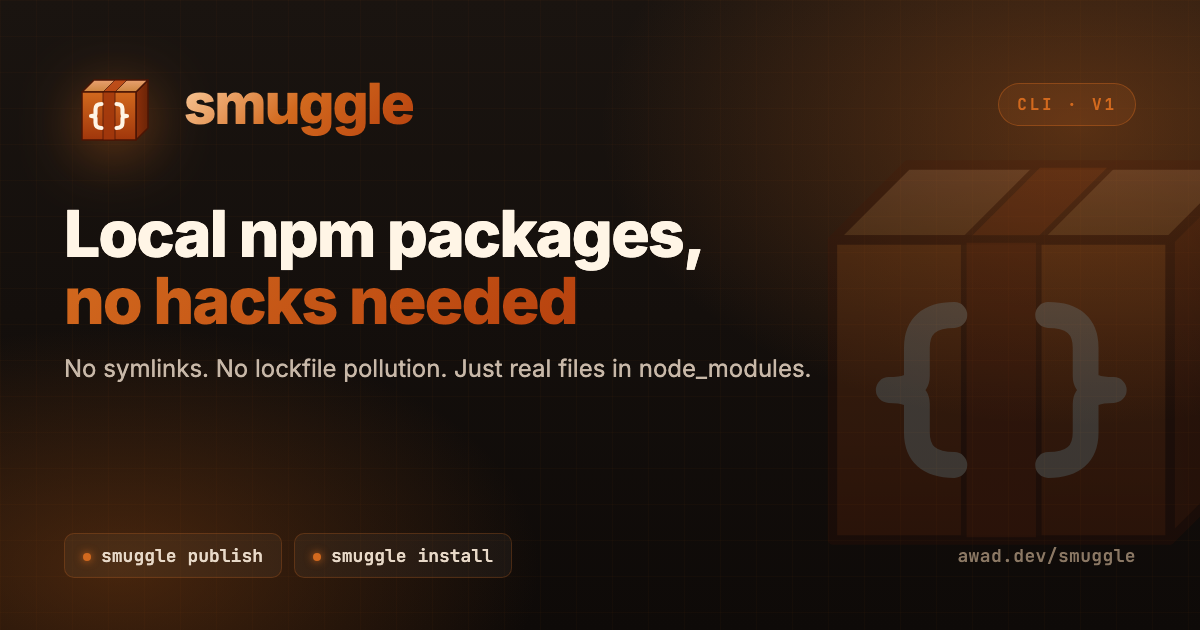
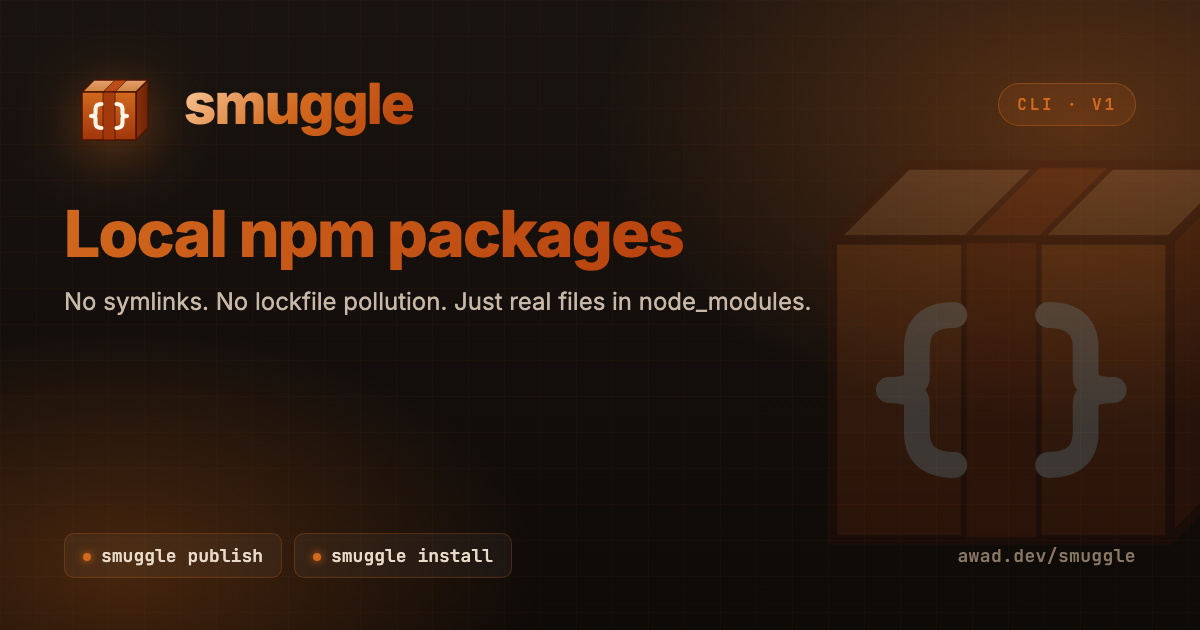
Add custom site footer and trim hero/OG copy
Slot a branded Footer with mini illustration, three link columns
(Guide / Reference / Project), and a faux-prompt bottom strip into
the layout-bottom slot via a Layout wrapper. Add a CSS rule to push
the footer past the fixed sidebar on doc pages so it isn't covered.

Drop "no hacks needed" from the hero, footer tag, and OG image —
reads cleaner without it.

Changed region(s): [[0.0308, 0.3317, 0.6783, 0.5127], [0.0308, 0.573, 0.6783, 0.6032]]

diff --git a/docs/.vitepress/components/Footer.vue b/docs/.vitepress/components/Footer.vue
@@ -1,0 +1,337 @@
+<script setup>
+import { withBase } from "vitepress";
+
+const COLUMNS = [
+  {
+    title: "Guide",
+    links: [
+      { text: "Why Smuggle?", to: "/guide/why" },
+      { text: "Getting Started", to: "/guide/getting-started" },
+      { text: "CI / Non-Interactive", to: "/guide/ci" },
+    ],
+  },
+  {
+    title: "Reference",
+    links: [
+      { text: "Commands", to: "/reference/commands" },
+      { text: "Flags", to: "/reference/flags" },
+      { text: "llms.txt", to: "/llms.txt", external: true },
+    ],
+  },
+  {
+    title: "Project",
+    links: [
+      { text: "GitHub", href: "https://github.com/logaretm/smuggle", external: true },
+      { text: "Issues", href: "https://github.com/logaretm/smuggle/issues", external: true },
+      { text: "Releases", href: "https://github.com/logaretm/smuggle/releases", external: true },
+    ],
+  },
+];
+
+const year = new Date().getFullYear();
+</script>
+
+<template>
+  <footer class="sm-footer">
+    <div class="sm-footer-bg" aria-hidden="true">
+      <svg viewBox="0 0 600 200" preserveAspectRatio="none">
+        <defs>
+          <linearGradient id="ftr-glow" x1="50%" y1="0%" x2="50%" y2="100%">
+            <stop offset="0%" stop-color="#d2691e" stop-opacity="0.18" />
+            <stop offset="100%" stop-color="#d2691e" stop-opacity="0" />
+          </linearGradient>
+        </defs>
+        <ellipse cx="300" cy="0" rx="500" ry="120" fill="url(#ftr-glow)" />
+      </svg>
+    </div>
+
+    <div class="sm-footer-inner">
+      <div class="sm-footer-grid">
+        <div class="sm-footer-brand">
+          <div class="sm-footer-mark">
+            <svg viewBox="0 0 128 128" aria-hidden="true">
+              <defs>
+                <linearGradient id="ftr-front" x1="0" y1="0" x2="0" y2="1">
+                  <stop offset="0" stop-color="#d2691e" />
+                  <stop offset="1" stop-color="#a0360b" />
+                </linearGradient>
+                <linearGradient id="ftr-top" x1="0" y1="1" x2="0" y2="0">
+                  <stop offset="0" stop-color="#cd853f" />
+                  <stop offset="1" stop-color="#e8a070" />
+                </linearGradient>
+                <linearGradient id="ftr-right" x1="0" y1="0" x2="1" y2="0">
+                  <stop offset="0" stop-color="#8b2f0a" />
+                  <stop offset="1" stop-color="#6b2407" />
+                </linearGradient>
+                <linearGradient id="ftr-tape" x1="0" y1="0" x2="0" y2="1">
+                  <stop offset="0" stop-color="#a0360b" />
+                  <stop offset="1" stop-color="#7a2807" />
+                </linearGradient>
+              </defs>
+              <ellipse cx="68" cy="118" rx="48" ry="5" fill="#000" opacity="0.22" />
+              <path d="M96 48 L96 112 L112 96 L112 32 Z" fill="url(#ftr-right)" stroke="#4a1505" stroke-width="2" stroke-linejoin="round" />
+              <path d="M24 48 L40 32 L112 32 L96 48 Z" fill="url(#ftr-top)" stroke="#4a1505" stroke-width="2" stroke-linejoin="round" />
+              <path d="M52 48 L68 32 L84 32 L68 48 Z" fill="#b7410e" stroke="#4a1505" stroke-width="1.2" stroke-linejoin="round" opacity="0.85" />
+              <path d="M24 48 L96 48 L96 112 L24 112 Z" fill="url(#ftr-front)" stroke="#4a1505" stroke-width="2" stroke-linejoin="round" />
+              <path d="M52 48 L68 48 L68 112 L52 112 Z" fill="url(#ftr-tape)" stroke="#4a1505" stroke-width="1.2" stroke-linejoin="round" opacity="0.85" />
+              <g stroke="#fff5e6" stroke-width="5.5" stroke-linecap="round" stroke-linejoin="round" fill="none">
+                <path d="M50 64 Q42 64 42 71 L42 77 Q42 80 36 80 Q42 80 42 83 L42 89 Q42 96 50 96" />
+                <path d="M70 64 Q78 64 78 71 L78 77 Q78 80 84 80 Q78 80 78 83 L78 89 Q78 96 70 96" />
+              </g>
+            </svg>
+          </div>
+          <div class="sm-footer-brand-text">
+            <div class="sm-footer-brand-name">smuggle</div>
+            <div class="sm-footer-brand-tag">Local npm packages.</div>
+          </div>
+        </div>
+
+        <div
+          v-for="col in COLUMNS"
+          :key="col.title"
+          class="sm-footer-col"
+        >
+          <div class="sm-footer-col-title">{{ col.title }}</div>
+          <ul>
+            <li v-for="link in col.links" :key="link.text">
+              <a
+                v-if="link.href"
+                :href="link.href"
+                :rel="link.external ? 'noopener' : null"
+                :target="link.external ? '_blank' : null"
+              >
+                {{ link.text }}
+                <svg v-if="link.external" class="sm-ext" viewBox="0 0 16 16" aria-hidden="true">
+                  <path d="M6 3 H3 V13 H13 V10 M9 3 H13 V7 M7.5 8.5 L13 3" fill="none" stroke="currentColor" stroke-width="1.4" stroke-linecap="round" stroke-linejoin="round" />
+                </svg>
+              </a>
+              <a
+                v-else
+                :href="withBase(link.to)"
+                :rel="link.external ? 'noopener' : null"
+                :target="link.external ? '_blank' : null"
+              >
+                {{ link.text }}
+                <svg v-if="link.external" class="sm-ext" viewBox="0 0 16 16" aria-hidden="true">
+                  <path d="M6 3 H3 V13 H13 V10 M9 3 H13 V7 M7.5 8.5 L13 3" fill="none" stroke="currentColor" stroke-width="1.4" stroke-linecap="round" stroke-linejoin="round" />
+                </svg>
+              </a>
+            </li>
+          </ul>
+        </div>
+      </div>
+
+      <div class="sm-footer-strip">
+        <div class="sm-footer-meta">
+          <span>© {{ year }} smuggle</span>
+          <span class="sm-dot" aria-hidden="true">•</span>
+          <a href="https://github.com/logaretm/smuggle/blob/main/LICENSE" rel="noopener" target="_blank">MIT License</a>
+        </div>
+        <div class="sm-footer-tag">
+          <span class="sm-cmd">$</span>
+          <span class="sm-cmd-text">crafted with rust &amp; care</span>
+          <span class="sm-cursor" />
+        </div>
+      </div>
+    </div>
+  </footer>
+</template>
+
+<style scoped>
+.sm-footer {
+  position: relative;
+  margin-top: 4rem;
+  padding: 0;
+  border-top: 1px solid var(--vp-c-divider);
+  background: linear-gradient(180deg, var(--vp-c-bg) 0%, var(--vp-c-bg-soft) 100%);
+  overflow: hidden;
+}
+
+.dark .sm-footer {
+  background: linear-gradient(180deg, #110e0c 0%, #1a1410 100%);
+  border-top-color: rgba(210, 105, 30, 0.18);
+}
+
+.sm-footer-bg {
+  position: absolute;
+  inset: 0;
+  pointer-events: none;
+  z-index: 0;
+}
+
+.sm-footer-bg svg { width: 100%; height: 100%; display: block; }
+
+.sm-footer-inner {
+  position: relative;
+  z-index: 1;
+  max-width: 1152px;
+  margin: 0 auto;
+  padding: 3rem 1.5rem 1.5rem;
+}
+
+.sm-footer-grid {
+  display: grid;
+  grid-template-columns: 1.6fr repeat(3, 1fr);
+  gap: 2.5rem;
+  margin-bottom: 2.5rem;
+}
+
+@media (max-width: 760px) {
+  .sm-footer-grid {
+    grid-template-columns: 1fr 1fr;
+    gap: 1.75rem;
+  }
+}
+
+@media (max-width: 480px) {
+  .sm-footer-grid { grid-template-columns: 1fr; }
+}
+
+.sm-footer-brand {
+  display: flex;
+  align-items: flex-start;
+  gap: 1rem;
+}
+
+@media (max-width: 760px) {
+  .sm-footer-brand { grid-column: 1 / -1; }
+}
+
+.sm-footer-mark {
+  flex-shrink: 0;
+  width: 64px;
+  height: 64px;
+  filter: drop-shadow(0 8px 20px rgba(210, 105, 30, 0.35));
+  transition: transform 0.4s cubic-bezier(0.4, 0, 0.2, 1);
+}
+
+.sm-footer-mark svg { width: 100%; height: 100%; }
+
+.sm-footer-mark:hover { transform: rotate(-3deg) scale(1.04); }
+
+.sm-footer-brand-name {
+  font-size: 1.6rem;
+  font-weight: 800;
+  letter-spacing: -0.02em;
+  background: linear-gradient(135deg, #b7410e, #d2691e, #8b4513);
+  -webkit-background-clip: text;
+  background-clip: text;
+  color: transparent;
+  margin-bottom: 0.25rem;
+}
+
+.sm-footer-brand-tag {
+  font-size: 0.85rem;
+  color: var(--vp-c-text-2);
+  line-height: 1.5;
+  max-width: 280px;
+}
+
+.sm-footer-col-title {
+  font-family: var(--vp-font-family-mono);
+  font-size: 0.7rem;
+  font-weight: 700;
+  letter-spacing: 0.18em;
+  text-transform: uppercase;
+  color: var(--sm-rust-2);
+  margin-bottom: 0.85rem;
+}
+
+.sm-footer-col ul {
+  list-style: none;
+  margin: 0;
+  padding: 0;
+  display: flex;
+  flex-direction: column;
+  gap: 0.55rem;
+}
+
+.sm-footer-col a {
+  display: inline-flex;
+  align-items: center;
+  gap: 0.35rem;
+  font-size: 0.88rem;
+  color: var(--vp-c-text-2);
+  text-decoration: none !important;
+  transition: color 0.2s ease, transform 0.2s ease;
+}
+
+.sm-footer-col a:hover {
+  color: var(--sm-rust-2);
+  transform: translateX(2px);
+}
+
+.sm-ext {
+  width: 10px;
+  height: 10px;
+  opacity: 0.6;
+}
+
+.sm-footer-strip {
+  display: flex;
+  flex-wrap: wrap;
+  align-items: center;
+  justify-content: space-between;
+  gap: 0.75rem;
+  padding-top: 1.25rem;
+  border-top: 1px solid var(--vp-c-divider);
+}
+
+.sm-footer-meta {
+  display: flex;
+  align-items: center;
+  gap: 0.5rem;
+  font-size: 0.78rem;
+  color: var(--vp-c-text-3);
+  font-family: var(--vp-font-family-mono);
+}
+
+.sm-footer-meta a {
+  color: var(--vp-c-text-2);
+  text-decoration: none !important;
+  transition: color 0.2s ease;
+}
+
+.sm-footer-meta a:hover { color: var(--sm-rust-2); }
+
+.sm-dot { color: var(--vp-c-text-3); }
+
+.sm-footer-tag {
+  display: inline-flex;
+  align-items: center;
+  gap: 0.4rem;
+  font-family: var(--vp-font-family-mono);
+  font-size: 0.78rem;
+  color: var(--vp-c-text-3);
+  padding: 0.35rem 0.7rem;
+  border-radius: 6px;
+  background: var(--vp-c-bg-soft);
+  border: 1px solid var(--vp-c-divider);
+}
+
+.sm-cmd {
+  color: var(--sm-rust-2);
+  font-weight: 700;
+}
+
+.sm-cmd-text { color: var(--vp-c-text-2); }
+
+.sm-cursor {
+  display: inline-block;
+  width: 6px;
+  height: 0.95em;
+  background: var(--sm-rust-2);
+  margin-left: 2px;
+  animation: sm-blink 1s steps(1) infinite;
+  vertical-align: text-bottom;
+}
+
+@keyframes sm-blink {
+  50% { opacity: 0; }
+}
+
+@media (prefers-reduced-motion: reduce) {
+  .sm-cursor { animation: none; }
+  .sm-footer-mark:hover { transform: none; }
+}
+</style>

diff --git a/docs/.vitepress/theme/index.ts b/docs/.vitepress/theme/index.ts
@@ -1,5 +1,6 @@
 import DefaultTheme from "vitepress/theme";
 import "./custom.css";
+import Layout from "../components/Layout.vue";
 import ProcessDiagram from "../components/ProcessDiagram.vue";
 import HeroFeatures from "../components/HeroFeatures.vue";
 import TerminalDemo from "../components/TerminalDemo.vue";
@@ -13,6 +14,7 @@ import NotFound from "../components/NotFound.vue";
 
 export default {
   extends: DefaultTheme,
+  Layout,
   NotFound,
   enhanceApp({ app }) {
     app.component("ProcessDiagram", ProcessDiagram);

diff --git a/docs/.vitepress/theme/custom.css b/docs/.vitepress/theme/custom.css
@@ -355,6 +355,16 @@ kbd {
   border-radius: 4px;
 }
 
+/* On doc pages, the sidebar is position: fixed and overlays the left side
+   of the layout. The footer (slotted at layout-bottom) is full-width by
+   default, so the sidebar covers its left half. Offset the footer to start
+   where the content does. */
+@media (min-width: 960px) {
+  .Layout:has(.VPContent.has-sidebar) .sm-footer {
+    padding-left: var(--vp-sidebar-width);
+  }
+}
+
 /* Local search */
 .VPLocalSearchBox .shell {
   border-radius: 14px !important;

diff --git a/docs/.vitepress/components/Layout.vue b/docs/.vitepress/components/Layout.vue
@@ -1,0 +1,14 @@
+<script setup>
+import DefaultTheme from "vitepress/theme";
+import Footer from "./Footer.vue";
+
+const { Layout } = DefaultTheme;
+</script>
+
+<template>
+  <Layout>
+    <template #layout-bottom>
+      <Footer />
+    </template>
+  </Layout>
+</template>

diff --git a/docs/index.md b/docs/index.md
@@ -2,7 +2,7 @@
 layout: home
 hero:
   name: Smuggle
-  text: Local npm packages, no hacks needed
+  text: Local npm packages
   tagline: No symlinks, no lockfile pollution, no registry overrides. Just real files in node_modules.
   actions:
     - theme: brand
